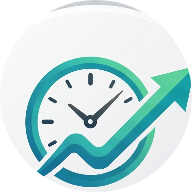
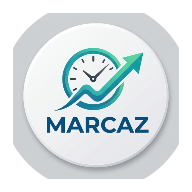
Correção do olho + ícones + cache (deploy)

diff --git a/public/sw.js b/public/sw.js
@@ -6,8 +6,9 @@ const ESTATICOS = [
   '/shared/base.css',
   '/shared/fixes.css',
   '/shared/app.js',
+  '/shared/marcaz-app-512.png',
+  '/shared/marcaz-app-192.png',
   '/shared/emblema.png',
-  '/shared/emblema-192.png',
   '/gestor/gestor.css',
   '/gestor/gestor.js',
   '/app/cliente.css',
@@ -39,15 +40,21 @@ self.addEventListener('fetch', (e) => {
     return;
   }
 
-  // arquivos fixos: cache primeiro
-  e.respondWith(
-    caches.match(e.request).then((pronto) => pronto
-      || fetch(e.request).then((r) => {
-        if (r.ok && url.origin === self.location.origin) {
-          const copia = r.clone();
-          caches.open(VERSAO).then((c) => c.put(e.request, copia));
-        }
-        return r;
-      }).catch(() => pronto))
-  );
+  // Arquivos da interface: rede primeiro, cache como reserva. Assim que a
+  // correção sobe para o servidor, ela chega no celular do cliente na hora —
+  // e continua abrindo quando estiver sem internet.
+  const naRede = () => fetch(e.request).then((r) => {
+    if (r.ok && url.origin === self.location.origin) {
+      const copia = r.clone();
+      caches.open(VERSAO).then((c) => c.put(e.request, copia));
+    }
+    return r;
+  });
+  const noCache = async () => (await caches.match(e.request)) || (await caches.match(url.pathname)) || null;
+
+  if (url.pathname.startsWith('/shared/') || url.pathname.startsWith('/vendor/')) {
+    e.respondWith(naRede().catch(async () => (await noCache()) || Response.error()));
+    return;
+  }
+  e.respondWith(noCache().then((pronto) => pronto || naRede().catch(() => Response.error())));
 });

diff --git a/public/entrada.html b/public/entrada.html
@@ -5,7 +5,7 @@
   <meta name="viewport" content="width=device-width, initial-scale=1.0" />
   <title>Marcaz — Agendamento para barbearias, salões e clínicas</title>
   <meta name="description" content="O Marcaz é o aplicativo de agendamento da Jhovis Tecnologia para barbearias, salões de beleza e estúdios de estética." />
-  <link rel="icon" type="image/png" sizes="192x192" href="/shared/emblema-192.png" />
+  <link rel="icon" type="image/png" sizes="192x192" href="/shared/marcaz-app-192.png" />
   <link rel="apple-touch-icon" href="/shared/marcaz-app-192.png" />
   <link rel="stylesheet" href="/shared/base.css" />
   <style>
@@ -21,7 +21,7 @@
 </head>
 <body>
   <main class="porta entra">
-    <img class="porta-logo" src="/shared/emblema.png" alt="Marcaz" />
+    <img class="porta-logo" src="/shared/marcaz-app-512.png" alt="Marcaz" />
     <h1>Marcaz</h1>
     <p>Agendamentos, equipe, promoções e financeiro no mesmo lugar —<br />para barbearias, salões e estúdios de estética.</p>
     <div class="card">

diff --git a/public/control/index.html b/public/control/index.html
@@ -4,8 +4,8 @@
   <meta charset="UTF-8" />
   <meta name="viewport" content="width=device-width, initial-scale=1.0" />
   <title>Marcaz Control — Jhovis Tecnologia</title>
-  <link rel="icon" type="image/png" sizes="192x192" href="/shared/emblema-192.png" />
-  <link rel="apple-touch-icon" href="/shared/emblema-192.png" />
+  <link rel="icon" type="image/png" sizes="192x192" href="/shared/marcaz-app-192.png" />
+  <link rel="apple-touch-icon" href="/shared/marcaz-app-192.png" />
   <meta name="theme-color" content="#0b0d12" />
   <link rel="stylesheet" href="/shared/base.css" />
   <link rel="stylesheet" href="/shared/fixes.css" />
@@ -15,6 +15,6 @@
   <div id="app"><div class="wrap-largo"><p class="muted pequeno" style="padding:40px 0;text-align:center">Carregando…</p></div></div>
   <div id="rodape"></div>
   <script type="module" src="/control/control.js"></script>
-  <script src="/shared/senha.js"></script>
+  <script src="/shared/senha.js?v=2"></script>
 </body>
 </html>

diff --git a/public/gestor/index.html b/public/gestor/index.html
@@ -5,7 +5,7 @@
   <meta name="viewport" content="width=device-width, initial-scale=1.0" />
   <title>Marcaz — Painel do Gestor</title>
   <link rel="icon" type="image/png" sizes="192x192" href="/shared/marcaz-app-192.png" />
-  <link rel="apple-touch-icon" href="/shared/emblema-192.png" />
+  <link rel="apple-touch-icon" href="/shared/marcaz-app-192.png" />
   <link rel="manifest" href="/gestor/manifest.webmanifest" />
   <meta name="theme-color" content="#0b0d12" />
   <link rel="stylesheet" href="/shared/base.css" />
@@ -17,6 +17,6 @@
   <div id="app"><div class="wrap-largo"><p class="muted pequeno" style="padding:40px 0;text-align:center">Carregando…</p></div></div>
   <div id="rodape"></div>
   <script type="module" src="/gestor/gestor.js"></script>
-  <script src="/shared/senha.js"></script>
+  <script src="/shared/senha.js?v=2"></script>
 </body>
 </html>

diff --git a/public/app/index.html b/public/app/index.html
@@ -7,7 +7,7 @@
   <meta name="theme-color" content="#0b0d12" />
   <link rel="manifest" href="/manifest.webmanifest" />
   <link rel="apple-touch-icon" href="/shared/marcaz-app-192.png" />
-  <link rel="icon" type="image/png" sizes="192x192" href="/shared/emblema-192.png" />
+  <link rel="icon" type="image/png" sizes="192x192" href="/shared/marcaz-app-192.png" />
   <link rel="stylesheet" href="/shared/base.css" />
   <link rel="stylesheet" href="/shared/fixes.css" />
   <link rel="stylesheet" href="/app/cliente.css" />
@@ -18,6 +18,6 @@
   </main>
   <div id="rodape"></div>
   <script type="module" src="/app/cliente.js"></script>
-  <script src="/shared/senha.js"></script>
+  <script src="/shared/senha.js?v=2"></script>
 </body>
 </html>

diff --git a/docs/GUIA-DE-VENDAS.md b/docs/GUIA-DE-VENDAS.md
@@ -1,0 +1,123 @@
+# 🎯 Guia de vendas — Marcaz (para a equipe Jhovis)
+
+Objetivo: a pessoa ler, grifar o que combina com cada cliente e usar no WhatsApp, na
+ligação ou na visita. Nada de discurso decorado — é conversa, com prova na tela.
+
+---
+
+## 1. O que é o Marcaz (fale em 30 segundos)
+
+"O Marcaz é um aplicativo de agendamento para barbearias, salões e clínicas de estética.
+Cada estabelecimento ganha um link próprio com o nome dele: o cliente marca o horário
+sozinho pelo celular, 24 horas por dia, sem ligar e sem esperar resposta no WhatsApp.
+Do outro lado, o dono administra tudo num painel: agenda, equipe, promoções e o quanto
+entrou — com relatório pronto."
+
+---
+
+## 2. As dores que o Marcaz resolve (é por aqui que a venda fecha)
+
+- **O caderno/planilha de sempre** — a cliente liga, a dona não acha o horário, anota em
+  cima do outro. No Marcaz o cliente escolhe entre horários livres de verdade: o sistema
+  soma a duração dos serviços e não deixa dois clientes no mesmo horário.
+- **WhatsApp lotado de "tem horário amanhã?"** — o link responde sozinho, de madrugada
+  também. A dona para de ser secretária e volta a atender.
+- **Cliente que marca e não vem** — trava de 15 minutos para cancelar em cima da hora e
+  lembrete no celular do cliente antes do horário. Caderno nenhum avisa ninguém.
+- **Promoção que ninguém lembra de cobrar** — campanha com desconto em %, data de
+  validade e chave liga/desliga; o preço antigo aparece riscado na tela do cliente e o
+  valor normal volta sozinho quando acaba.
+- **Equipe fora de controle** — cada profissional com login próprio, vendo só a agenda
+  dele e o que o dono liberou. O dono vê todos.
+- **Caixa bagunçado** — quanto entrou hoje, na semana, no período; ticket médio, serviços
+  mais vendidos, horários de pico, desempenho por profissional e relatório em PDF.
+- **Cliente que sumiu** — o painel marca quem não volta há 30/60/90 dias, mostra quanto
+  essa pessoa já gastou e abre o WhatsApp com a mensagem de resgate pronta. É dinheiro
+  parado voltando.
+- **Quem chega no balcão sem celular** — entra como "Cliente AV - nome (quem cadastrou)"
+  e a equipe toda sabe quem registrou.
+
+---
+
+## 3. Vantagens comparadas com o Gendo (líder de mercado)
+
+O Gendo é de 2013, tem ~8.300 estabelecimentos e cobra **por profissional**: R$ 39,90
+(Básico, 1 pessoa) a R$ 124,90 (Avançado, 3-6 pessoas), e acima disso é "sob consulta".
+
+| Necessidade | Como o Gendo cobra | Como o Marcaz entrega |
+|---|---|---|
+| Agenda + link do cliente | no plano básico | incluso, no menor plano |
+| Vários serviços na mesma visita | com hora de término somada | igual — soma tempo e valor |
+| Financeiro com gráfico | plano intermediário/avançado | completo desde o início |
+| Clientes sumidos / aniversários | campanhas nos planos altos | painel com botão de WhatsApp |
+| App de celular | app próprio cobrado à parte | app instalável sem custo extra |
+| Várias unidades da mesma rede | plano "sob consulta" | Control da Jhovis, sem escalar preço |
+| Aumento de preço unilateral | acontece (o deles subiu) | contrato simples, reajuste combinado |
+
+**Frase-chave:** "Você não paga por profissional: paga pelo estabelecimento. Se amanhã
+entrar mais um barbeiro, o preço é o mesmo."
+
+---
+
+## 4. As 5 objeções mais comuns — e a resposta
+
+**"Está caro."**
+"Compare com o que você perde: um cliente que não volta por mês já paga o sistema
+inteiro. E não tem taxa de instalação nem fidelidade."
+
+**"Meu cliente não vai saber usar."**
+"Ele não aprende nada: abre o link, escolhe dia e horário. Se ele usa WhatsApp, usa o
+Marcaz. O seu cliente mais velho agenda pelo link no primeiro dia."
+
+**"Eu já tenho agenda no celular."**
+"A agenda do celular não bloquea horário duplicado, não avisa o cliente, não faz promoção,
+não mostra seu caixa e não te diz quem sumiu há 60 dias. É lembrete, não é gestão."
+
+**"E se der problema, quem me atende?"**
+"Suporte humano da Jhovis pelo WhatsApp, com acesso remoto quando precisar. E seus dados
+ficam em nuvem — se o computador quebrar, você não perde agenda nenhuma."
+
+**"Quero experimentar antes."**
+"Vamos experimentar agora, na sua frente: me passa seu nome e telefone que eu te mostro o
+seu painel de teste com um agendamento de exemplo. Em 10 minutos você decide." (Esta é a
+melhor objeção — quem pede teste pede porque está quase comprando.)
+
+---
+
+## 5. Roteiro da demonstração (10 minutos, nessa ordem)
+
+1. **Abra o link do cliente no celular dele** — escolha 2 serviços (corte + barba), mostre
+   a soma do tempo e do valor, confirme.
+2. **Abra o painel na frente dele** — o agendamento já está na agenda, o sino tocou, o
+   financeiro mexeu.
+3. **Mostre um "cliente sumido"** — botão do WhatsApp pronto para chamar de volta.
+4. **Mostre a promoção** — preço riscado, data de validade, chave liga/desliga.
+5. **Feche com o app** — "isso aqui vira aplicativo no seu celular, com o seu ícone".
+6. Só então fale o preço.
+
+## 6. Preços sugeridos para o lançamento
+
+| Plano | Valor | Para quem |
+|---|---|---|
+| Boas-vindas | R$ 29,90/mês | 1 profissional |
+| Profissional | R$ 59,90/mês | até 5 profissionais |
+| Rede | sob consulta | 2+ unidades do mesmo dono |
+
+Regra de ouro: **primeiro o valor que ele ganha, depois o preço**. Cupom de lançamento é
+para fechar hoje, não para descontar sempre.
+
+## 7. Frases para decorar
+
+- "O Marcaz não é só agenda: é caixa, cliente e promoção no mesmo lugar."
+- "Seu cliente marca sozinho; você só atende."
+- "Uma falta evitada já pagou o sistema o mês inteiro."
+- "Você não aluga um aplicativo: aluga tempo livre."
+
+## 8. Erros que não podemos cometer
+
+- Dar preço antes de mostrar o problema resolvido.
+- Prometer o que ainda não existe (pagamento no app, disparo em massa — estão no roadmap,
+  venda o que já funciona).
+- Falar mal do concorrente; fale da diferença de preço por profissional.
+- Esquecer de anotar nome, telefone e bairro do interessado — follow-up em 48h vende mais
+  que a primeira conversa.
